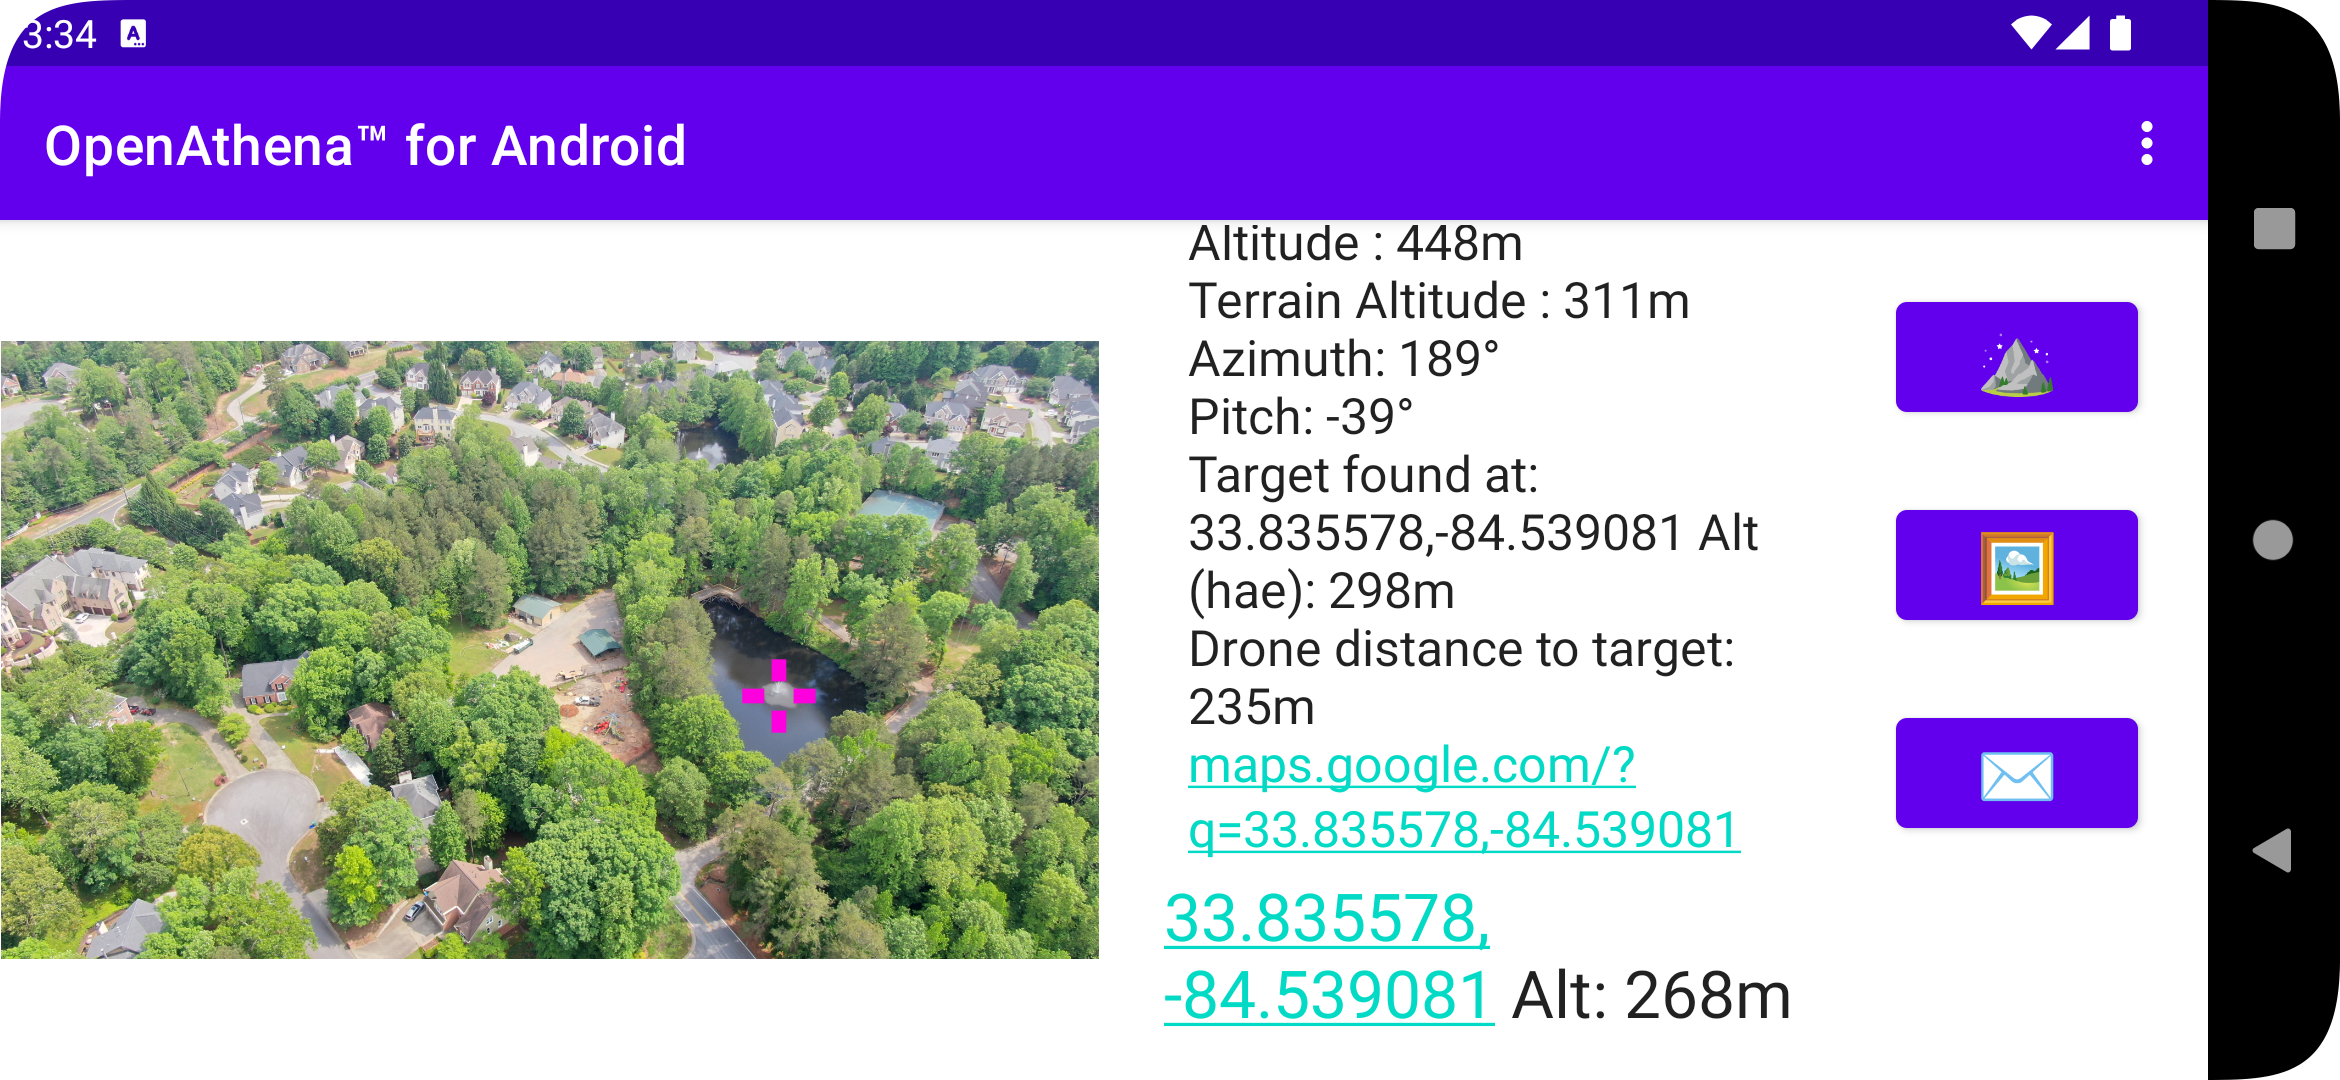
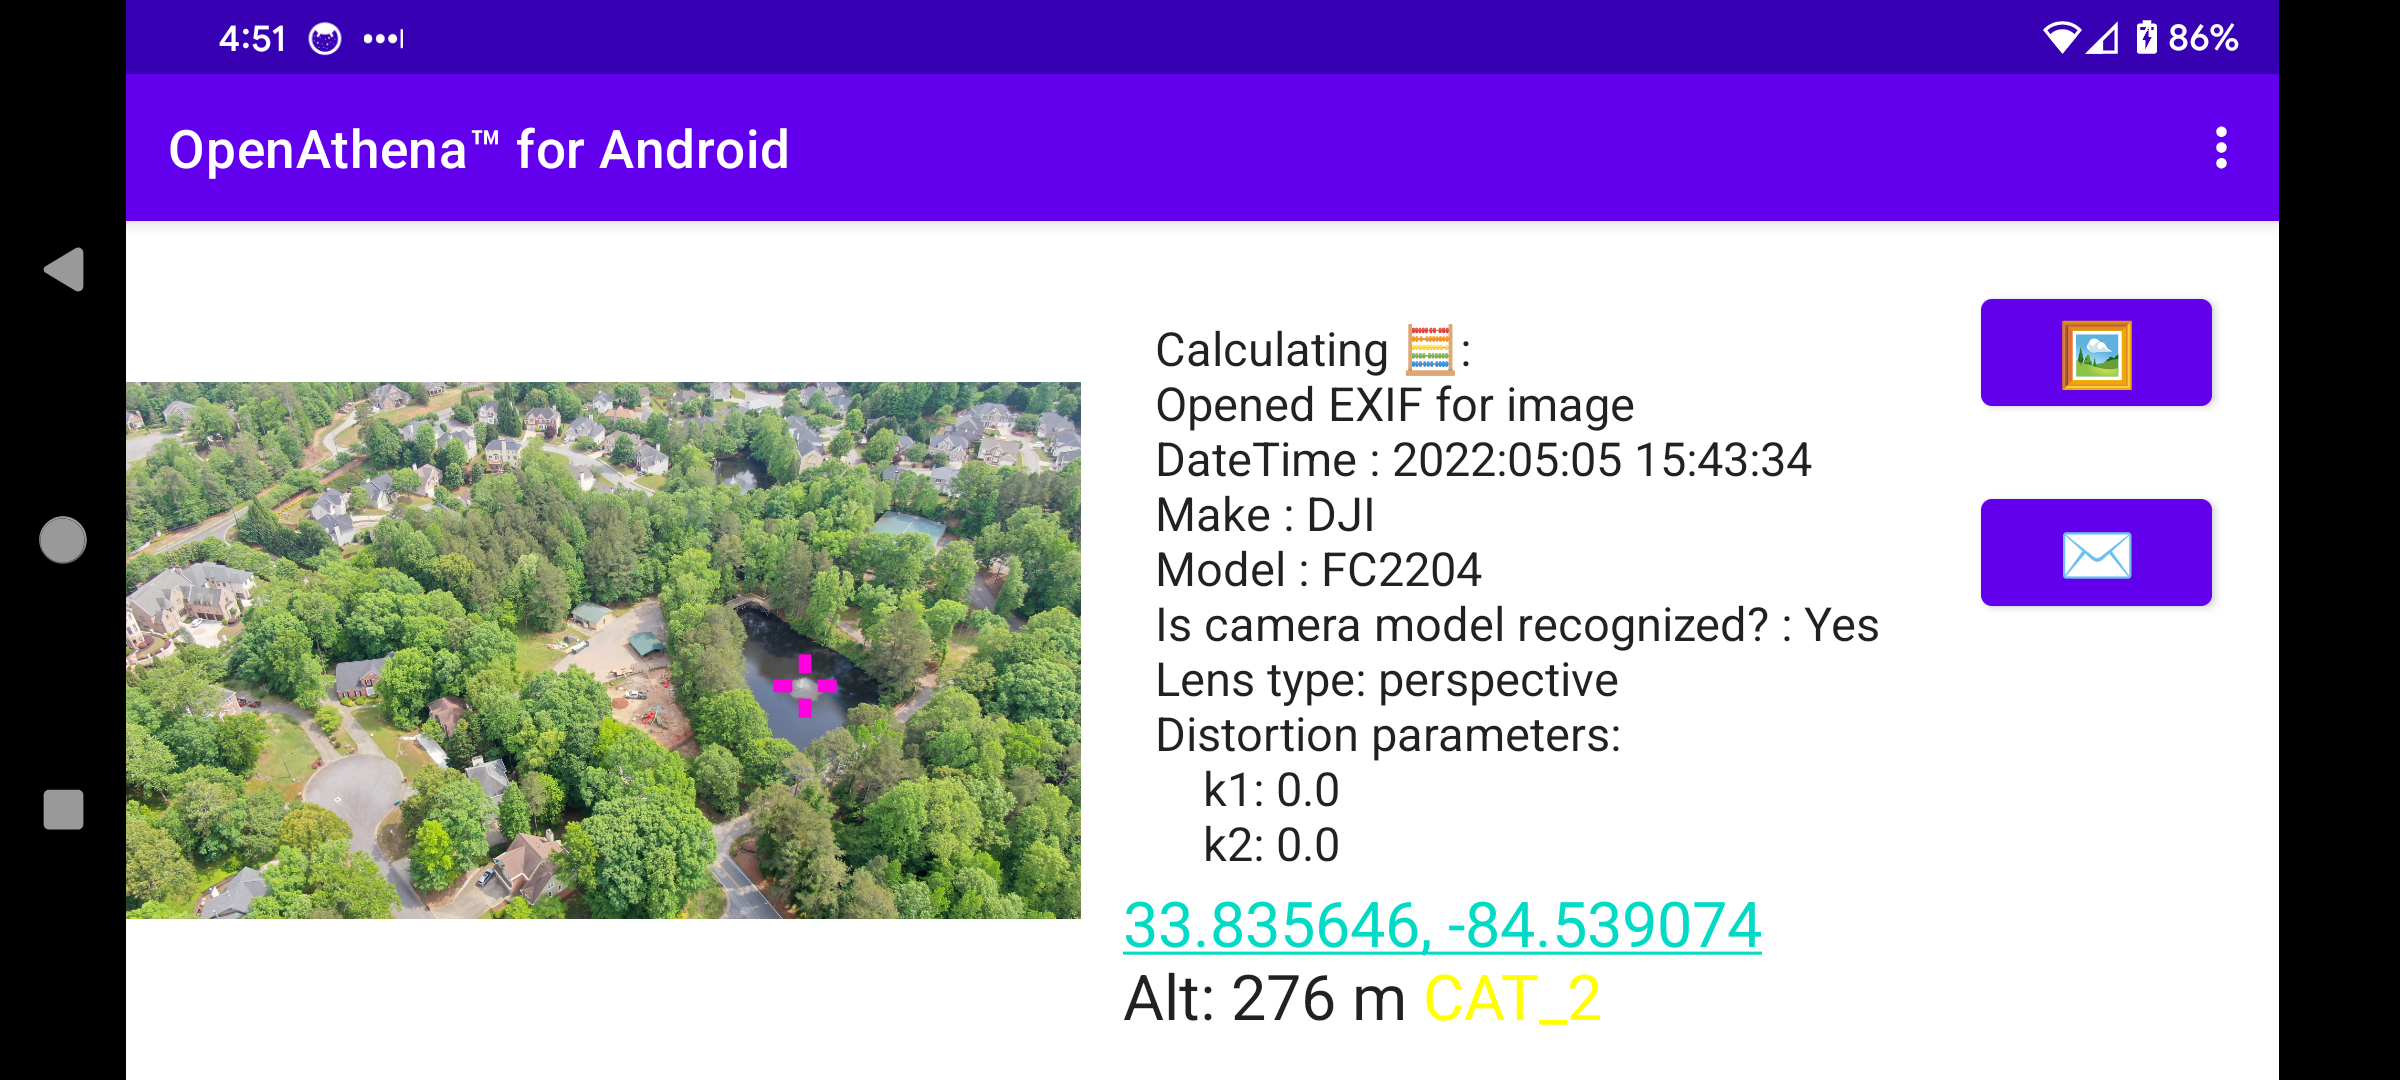
v0.21.0 docs update (#153)
* update most screenshots

* replace tap_to_locate_demo_small.gif

* screenshots add new activities and update fastlane screenshots

* fastlane metadata full_descriptions(s) replace DEM instr with API key instr

* local.properties add placeholder empty OPENTOPOGRAPHY_API_KEY

* update international screenshots and fix one String

* fix some metadata and bump version code

* README.md update for v0.21.0 and associated assets

* Update TROUBLESHOOTING.md

diff --git a/README.md b/README.md
@@ -53,23 +53,8 @@ Certain error conditions may occur during regular use of this software. For trou
 [https://github.com/Theta-Limited/OpenAthenaAndroid/blob/master/TROUBLESHOOTING.md](https://github.com/Theta-Limited/OpenAthenaAndroid/blob/master/TROUBLESHOOTING.md)
 
 
-## Obtain a GeoTIFF Digital Elevation Model:
-
-To use this app, you need a GeoTIFF or DTED (resolution level 2 or higher) Digital Elevation Model (DEM) file. DEM files store terrain elevation data for an area on Earth. OpenAthena performs a ray-cast from a drone camera's position and orientation towards the terrain, which can be used to precisely locate any point within a given drone image.
-
-GeoTIFF DEM files obtained from the [STRM GL1 30m](https://portal.opentopography.org/raster?opentopoID=OTSRTM.082015.4326.1) tend to produce more accurate target results than DTED
-
-To obtain a GeoTIFF file for a certain area, use [this link](https://github.com/mkrupczak3/OpenAthena/blob/main/EIO_fetch_geotiff_example.md).
-
-## Load a GeoTIFF Digital Elevation Model  ⛰:
-
-Load the DEM file (e.g. cobb.tif) using the "⛰" button. The app will display the size of the file and its latitude and longitude boundaries:
 
 
-(NOTE: during file selection, the thumbnail  image preview for any GeoTIFF ".tif" or DTED ".dt#" file will be blank. This is normal.)
-
-
-<img width="586" alt="OpenAthena™ Android GeoTIFF DEM loading demo using cobb.tif" src="./assets/cobb_tif_DEM_Loading_Demo_landscape.png">
 
 ## Setup for drone flight
 
@@ -103,21 +88,22 @@ Wait until at least 6 GPS satellites are visible (or you can confirm the GPS fix
 
 ## Select an Image 🖼:
 
-This app is compatible with images taken by select models of DJI, Skydio, Autel, and Parrot aircraft models. The drone's position and its camera's orientation are automatically extracted from the image metadata.
+To being, tap the '🖼' button to select and load a drone image.
 
-After loading a GeoTIFF DEM, use the "🖼" button to select a drone image containing the necessary metadata:
+This app is compatible with images taken by select models of DJI, Skydio, Autel, and Parrot aircraft models. The drone's position and its camera's orientation are automatically extracted from the image metadata. 
 
-<img width="586" alt="OpenAthena™ Android Image Selection demo using DJI_0419.JPG" src="./assets/DJI_0419_Image_Selection_Demo_landscape.png">
+OpenAthena for Android (v0.21.0 and later) will automatically select and/or download a Digital Elevation Model (DEM) for the area around your selected drone image.
+
+<img width="586" alt="OpenAthena™ Android User is prompted to allow automatic download of a Digital Elevation Model for use with their selected drone image" src="./assets/0699_download_DEM_prompt.png">
 
 ## Calculate a target 🎯:
 
-Tap anywhere on the displayed image to calculate the corresponding target location on the ground. You can tap the result display box to copy the result text to your clipboard or open the position in Google Maps by clicking the blue hyperlink:
+Tap anywhere on the displayed image to calculate the corresponding target location on the ground. You can tap the result display box to copy the result text to your clipboard or open the position in the maps app of your choice by clicking the blue hyperlink:
 
 <img width="586" alt="OpenAthena™ Android Target Calculation demo using cobb.tif and DJI_0419.JPG, output mode WGS84" src="./assets/DJI_0419_Target_Res_Demo_landscape.png">
 
 <img width="586" alt="OpenAthena Android DJI_0419.JPG target location text copied to clipboard" src="./assets/0419_text_copied_to_clipboard.png">
 
-<!-- <img width="340" alt="Gif showing text copied to clipboard toast after taping on results box" src="./assets/TextCopiedOptimized.gif"> -->
 
 <img width="586" alt="OpenAthena Android DJI_0419.JPG target shown in Google Maps satellite view" src="./assets/0419_maps_screenshot.png">
 

diff --git a/TROUBLESHOOTING.md b/TROUBLESHOOTING.md
@@ -24,7 +24,7 @@ OpenAthena™ allows common drones to spot precise geodetic locations.
 
 ## Preface
 
-OpenAthena for Android is designed to be usable by operators without the need for explicit technical training. A downside of this however is that fail conditions of the software can occur without the user having technical insight into why.
+OpenAthena™ for Android is designed to be usable by operators without the need for explicit technical training. A downside of this however is that fail conditions of the software can occur without the user having technical insight into why.
 
 OpenAthena is designed to fail safe. If data is known to be inaccurate, unusable, or incomplete enough for a calculation, the software will abort the calculation rather than provide an inaccurate result.
 
@@ -33,18 +33,15 @@ This troubleshooting manual provides important context on common fail conditions
 ## Common failure conditions
 
 
-(NOTE: during file selection, the thumbnail  image preview for any GeoTIFF ".tif" or DTED ".dt#" file will be blank. This is normal.)
-
-
 ### ERROR: failed to load DEM, not a GeoTIFF ".tif" or DTED2 ".dt2" file
 
 <img width="586" alt="OpenAthena Android an example of DEM load failure error" src="./assets/troubleshooting/ERROR_failed_to_load_DEM.jpg">
 
 OpenAthena requires a Digital Elevation Model (DEM) representing terrain altitude of an area of the earth to be loaded before calculations may be performed.
 
-This error may occur when you use the "⛰" button to attempt to load a DEM.
+This error may occur when the user or the app attempts to load a DEM from the application directory.
 
-Despite the content of this message, OpenAthena does actually supports DTED3 (.dt3) files as well.
+(Despite the content of this message, OpenAthena does actually supports DTED3 (.dt3) files as well)
 
 The DEM loading process is automated in some versions of the software (v0.21.0 and higher) when internet connection is available. Otherwise, download and load an elevation model within the app (v0.21.0 and higher) while you have an internet connection. Alternatively, follow the instructions in the document "EIO_fetch_geotiff_example.md" for obtaining an elevation model using OpenTopography.org:
 
@@ -65,7 +62,9 @@ To use this app, you need a GeoTIFF or DTED (resolution level 2 or higher) Digit
 
 GeoTIFF DEM files obtained from the [STRM GL1 30m](https://portal.opentopography.org/raster?opentopoID=OTSRTM.082015.4326.1) tend to produce more accurate target results than DTED files.
 
-To obtain a GeoTIFF file for a certain area, review the document "EIO_fetch_geotiff_example.md"
+OpenAthena for Android v0.21.0 and higher can automatically download DEM files when an internet connection is present. It also allows the user to download a custom-specified area (Manage Elevation Models -> Load New DEM) for later use offline. Downloaded DEMs are saved in the application cache directory where they may be automatically loaded by the app whenever you load a drone image from the corresponding area.
+
+To obtain a GeoTIFF file for a certain area outside of the OpenAthena app, review the document "EIO_fetch_geotiff_example.md"
 [https://github.com/mkrupczak3/OpenAthena/blob/main/EIO_fetch_geotiff_example.md](https://github.com/mkrupczak3/OpenAthena/blob/main/EIO_fetch_geotiff_example.md)
 
 ### ERROR: resolveTarget ran OOB at: 00.000000, 00.000000, Please ensure your DEM file covers the drone's location!
